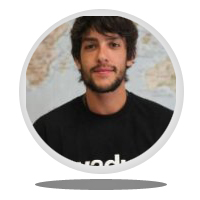
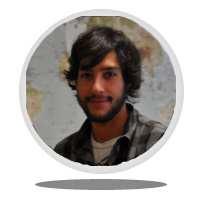
Descripción y foto saleiva actualizados

diff --git a/ponentes.html b/ponentes.html
@@ -191,7 +191,7 @@ Es autor del “Modelo LUDO de Gobierno Abierto”, un desarrollo conceptual del
             <a href="http://es.linkedin.com/in/saleiva" target="_blank" title="perfil linkedin" ><img src="images/linkedin_icon.png" alt="Linkedin"/></a>
           </div>
           <img src="images/ponentes/sergioAlvarez.jpg" alt="Sergio Alvarez" />
-          <p>Experto en sistemas de visualización de datos y fundador de Vizzuality.</p>
+<p>Trabaja como Director de Dise&ntilde;o en <a href="http://vizzuality.com/" target="_blank">Vizzuality</a>, un estudio de visualizaci&oacute;n que fund&oacute; hace 4 a&ntilde;os.&nbsp;En su d&iacute;a a d&iacute;a se encarga de conceptualizar y dise&ntilde;ar (desde la pizzarra, hasta el dise&ntilde;o visual) proyectos centrados en contar historias a partir de grandes cantidades de datos, y a desarrollar su producto mas importante <a href="http://cartodb.com" target="_blank">CartoDB</a>. Se declara amante de los mapas y de la comunidad Open Source.&nbsp;</p><p>Durante estos &uacute;ltimos 4 a&ntilde;os, ha tenido el placer de trabajar para clientes extraordinarios en proyectos que realmente importan como NASA, Google, World Resources Institute, la Universidad de Yale, Oxford el Wall Street Journal o the Guardian.&nbsp;En &quot;vidas paralelas&quot; imparte clases en el Instituto Europeo de Dise&ntilde;o y trabaja en el dise&ntilde;o de Agrogu&iacute;a, un proyecto precioso para hacer agricultura de precisi&oacute;n.</p>
           <p><strong>Imparte:</strong> Taller pr&aacute;ctico.
         </div>
     
